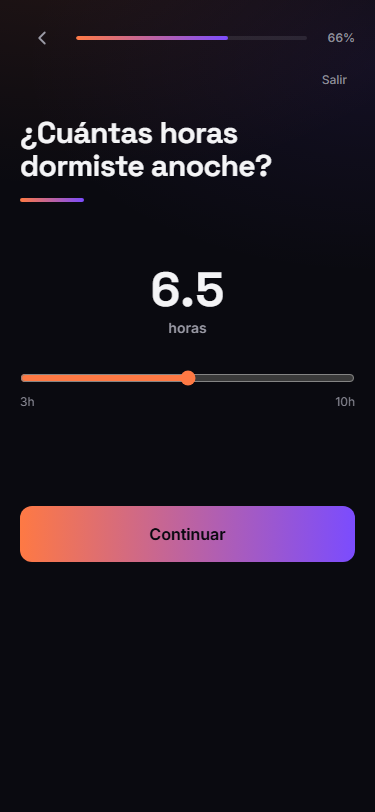
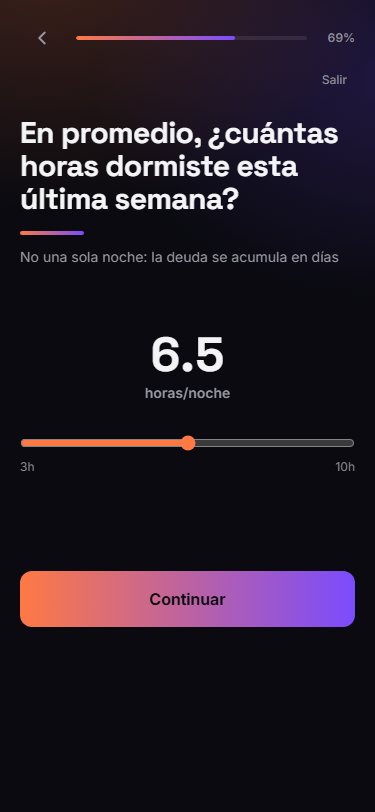
Onboarding: incorporate caffeine question + weekly-average framing
Compared a user-supplied Gemini onboarding proposal against the built
flow. Adopted the caffeine question (echoes a literal FICHA-AVATAR
quote) and reframed the sleep-hours question as a weekly average
instead of "last night" (more honest debt calculation). Rejected a
fabricated "62% mental capacity" stat and the competitor's price/trial
numbers, both of which would have broken existing decisions.

diff --git a/sleeppayoff/app/onboarding/page.tsx b/sleeppayoff/app/onboarding/page.tsx
@@ -17,20 +17,25 @@ import { ResultStep } from '@/components/onboarding/ResultStep';
 import { ConfirmSalir } from '@/components/onboarding/ConfirmSalir';
 
 type Respuestas = {
-  despertar?: string;
+  meta?: string;
   neblina?: string;
   probado?: string;
-  meta?: string;
+  despertar?: string;
+  cafe?: string;
   horasDormidas?: number;
   desconexion?: string;
 };
 
+// Meta primero (perceived fit inmediato — Headspace/Irrational Labs 2026: preguntar
+// duplicó activación), luego dolor, objeción dominante, ancla horaria, café (VoC literal
+// de FICHA-AVATAR), el dato duro, y el compromiso.
 const PASOS = [
-  'despertar',
+  'meta',
   'neblina',
   'reconocimiento1',
   'probado',
-  'meta',
+  'despertar',
+  'cafe',
   'horas',
   'desconexion',
   'reconocimiento2',
@@ -76,19 +81,19 @@ export default function OnboardingPage() {
       />
 
       <AnimatePresence mode="wait">
-        {paso === 'despertar' && (
+        {paso === 'meta' && (
           <ChipStep
-            key="despertar"
-            pregunta="¿A qué hora te despiertas entre semana?"
-            subcopy="Así ajustamos tu plan a tu horario real"
+            key="meta"
+            pregunta="¿Qué te gustaría lograr primero?"
+            subcopy="Tu plan de 3 días se ordena según esto"
             opciones={[
-              { label: 'Antes de las 6:30', icon: AlarmClock },
-              { label: 'Entre 6:30 y 7:30', icon: AlarmClock },
-              { label: 'Entre 7:30 y 9:00', icon: AlarmClock },
-              { label: 'Después de las 9:00', icon: AlarmClock },
+              { label: 'Eliminar la neblina mental en el trabajo', icon: Sparkles },
+              { label: 'Saber a qué hora desconectarme hoy', icon: Moon },
+              { label: 'Dejar de posponer la alarma', icon: AlarmClock },
+              { label: 'Entender qué me pasa', icon: Brain },
             ]}
             onSelect={(v) => {
-              setR((p) => ({ ...p, despertar: v }));
+              setR((p) => ({ ...p, meta: v }));
               avanzar();
             }}
           />
@@ -140,19 +145,36 @@ export default function OnboardingPage() {
           />
         )}
 
-        {paso === 'meta' && (
+        {paso === 'despertar' && (
           <ChipStep
-            key="meta"
-            pregunta="¿Qué te gustaría lograr primero?"
-            subcopy="Tu plan de 3 días se ordena según esto"
+            key="despertar"
+            pregunta="¿A qué hora te despiertas entre semana?"
+            subcopy="Así ajustamos tu plan a tu horario real"
             opciones={[
-              { label: 'Dejar de depender del café', icon: Coffee },
-              { label: 'Dormir y despertar mejor', icon: Moon },
-              { label: 'Rendir más en el trabajo', icon: Sparkles },
-              { label: 'Entender qué me pasa', icon: Brain },
+              { label: 'Antes de las 6:30', icon: AlarmClock },
+              { label: 'Entre 6:30 y 7:30', icon: AlarmClock },
+              { label: 'Entre 7:30 y 9:00', icon: AlarmClock },
+              { label: 'Después de las 9:00', icon: AlarmClock },
             ]}
             onSelect={(v) => {
-              setR((p) => ({ ...p, meta: v }));
+              setR((p) => ({ ...p, despertar: v }));
+              avanzar();
+            }}
+          />
+        )}
+
+        {paso === 'cafe' && (
+          <ChipStep
+            key="cafe"
+            pregunta="¿Cuántos cafés necesitas para aguantar el día?"
+            subcopy="Tu plan busca que dependas menos de esto"
+            opciones={[
+              { label: 'Ninguno, pero me cuesta enfocarme', icon: Coffee },
+              { label: '1 a 2 tazas', icon: Coffee },
+              { label: '3 o más — modo supervivencia', icon: Coffee },
+            ]}
+            onSelect={(v) => {
+              setR((p) => ({ ...p, cafe: v }));
               avanzar();
             }}
           />
@@ -183,7 +205,7 @@ export default function OnboardingPage() {
             key="reconocimiento2"
             icon={Sparkles}
             titulo="Tus respuestas te describen"
-            texto="Pocos definen su horario, su meta y su hora de desconexión antes de empezar. Tu plan usa exactamente esa disciplina — solo le faltaba el número exacto."
+            texto="Pocos definen su meta, su horario y su hora de desconexión antes de empezar. Tu plan usa exactamente esa disciplina — solo le faltaba el número exacto."
             onContinuar={avanzar}
           />
         )}
@@ -192,8 +214,8 @@ export default function OnboardingPage() {
           <LoadingStep
             key="cargando"
             lineas={[
-              { texto: `Analizando tu hora de despertar: ${r.despertar ?? '—'}` },
-              { texto: `Registrando tus horas de anoche: ${(r.horasDormidas ?? 6).toFixed(1)}h` },
+              { texto: `Analizando tu meta: ${r.meta ?? '—'}` },
+              { texto: `Registrando tu promedio de sueño: ${(r.horasDormidas ?? 6).toFixed(1)}h/noche` },
               { texto: 'Calculando tu deuda de sueño' },
               { texto: `Armando tu plan de 3 días hasta las ${r.desconexion ?? '22:00'}` },
             ]}
@@ -214,11 +236,12 @@ export default function OnboardingPage() {
   );
 }
 
-// Cálculo real (no inventado) a partir del único dato duro que el usuario dio esta sesión:
-// deuda = déficit de anoche frente a 8h, proyectado a 3 noches — el mismo horizonte del
-// Plan de 3 Días. Se ajusta con historial real en cuanto exista persistencia (25).
-function calcularDeuda(horasDormidas: number): number {
-  const deficitAnoche = Math.max(0, 8 - horasDormidas);
-  const estimado = deficitAnoche * 2.8;
+// Cálculo real (no inventado) a partir del dato duro que el usuario dio: su PROMEDIO de
+// horas dormidas de la última semana (no una sola noche — la deuda de sueño se acumula
+// en días, no en una noche) frente a las 8h de referencia. Se ajusta con historial real
+// en cuanto exista persistencia (25).
+function calcularDeuda(promedioHorasDormidas: number): number {
+  const deficitPromedio = Math.max(0, 8 - promedioHorasDormidas);
+  const estimado = deficitPromedio * 2.8;
   return Math.min(10, Math.max(0.5, Number(estimado.toFixed(1))));
 }

diff --git a/sleeppayoff/components/onboarding/ChipStep.tsx b/sleeppayoff/components/onboarding/ChipStep.tsx
@@ -54,14 +54,16 @@ export function InputHorasStep({
 
   return (
     <StepShell>
-      <PreguntaTitulo>¿Cuántas horas dormiste anoche?</PreguntaTitulo>
+      <PreguntaTitulo subcopy="No una sola noche: la deuda se acumula en días">
+        En promedio, ¿cuántas horas dormiste esta última semana?
+      </PreguntaTitulo>
       <div className="flex flex-col items-center py-8">
         <p
           className="text-5xl font-bold tabular-nums text-[var(--text-primary)] [font-family:var(--font-display)]"
         >
           {horas.toFixed(1)}
         </p>
-        <p className="mt-1 text-sm font-semibold text-[var(--text-secondary)]">horas</p>
+        <p className="mt-1 text-sm font-semibold text-[var(--text-secondary)]">horas/noche</p>
         <input
           type="range"
           min={3}
@@ -70,7 +72,7 @@ export function InputHorasStep({
           value={horas}
           onChange={(e) => setHoras(Number(e.target.value))}
           className="mt-8 w-full accent-[var(--accent)]"
-          aria-label="Horas dormidas anoche"
+          aria-label="Promedio de horas dormidas esta semana"
         />
         <div className="mt-2 flex w-full justify-between text-xs text-[var(--text-tertiary)]">
           <span>3h</span>

diff --git a/sleeppayoff/components/onboarding/ResultStep.tsx b/sleeppayoff/components/onboarding/ResultStep.tsx
@@ -118,7 +118,7 @@ export function ResultStep({
           <TrendingDown size={20} color="var(--accent)" />
         </span>
         <div>
-          <p className="text-sm font-bold text-[var(--text-primary)]">Tu plan de 3 días ya está listo</p>
+          <p className="text-sm font-bold text-[var(--text-primary)]">Tu plan de 3 días para pagar esas {deudaHoras.toFixed(1)}h</p>
           <p className="mt-0.5 text-xs text-[var(--text-secondary)]">Siestas y horarios calculados con tus propios datos</p>
         </div>
       </motion.div>

diff --git a/ESTADO.md b/ESTADO.md
@@ -34,7 +34,7 @@
 
 Paso 2 de la secuencia maestra (onboarding) construido — **NO LISTA todavía** (ver "Problemas conocidos" → veredicto:onboarding). Paso 1 (landing) también sigue NO LISTA, pausado por decisión del usuario para avanzar. Ambas pantallas compilan, tipan limpio y funcionan de punta a punta en el navegador.
 
-Onboarding: flujo de 10 pasos en `/onboarding` (2 preguntas eco de dolores → reconocimiento → objeción dominante → meta → horas dormidas [slider] → hora de desconexión [slider, commitment device] → reconocimiento con etiquetado positivo → loading animado con labor illusion → resultado real calculado con los datos del usuario). CTA final lleva a `/paywall` (placeholder honesto — Paso 3 aún no construido).
+Onboarding: flujo de 11 pasos en `/onboarding` — reordenado y ampliado tras comparar con una propuesta externa (Gemini) que el usuario trajo 2026-09-23: meta (primero, "perceived fit") → neblina (dolor) → reconocimiento → objeción dominante ("¿ya probaste algo?") → hora de despertar (ancla horaria) → **café** (nuevo — eco literal de VoC de FICHA-AVATAR "3 o 4 cafés al día") → promedio de horas dormidas **de la última semana** (cambiado de "anoche" — más honesto, la deuda se acumula en días) [slider] → hora de desconexión [slider, commitment device] → reconocimiento con etiquetado positivo → loading animado con labor illusion → resultado real calculado con los datos del usuario. Se descartaron 2 ideas de la propuesta externa por no ser honestas/consistentes: una métrica inventada ("62% de capacidad mental", sin base real — violaría "cero falsas promesas") y el precio/trial de la competencia ($6.99, 7 días — ya decidido $5/$3, 2 días). CTA final lleva a `/paywall` (placeholder honesto — Paso 3 aún no construido).
 
 Próximo paso: esperando que el usuario elija cómo seguir — pulir más el onboarding/landing, o avanzar al Paso 3 (paywall).
 
